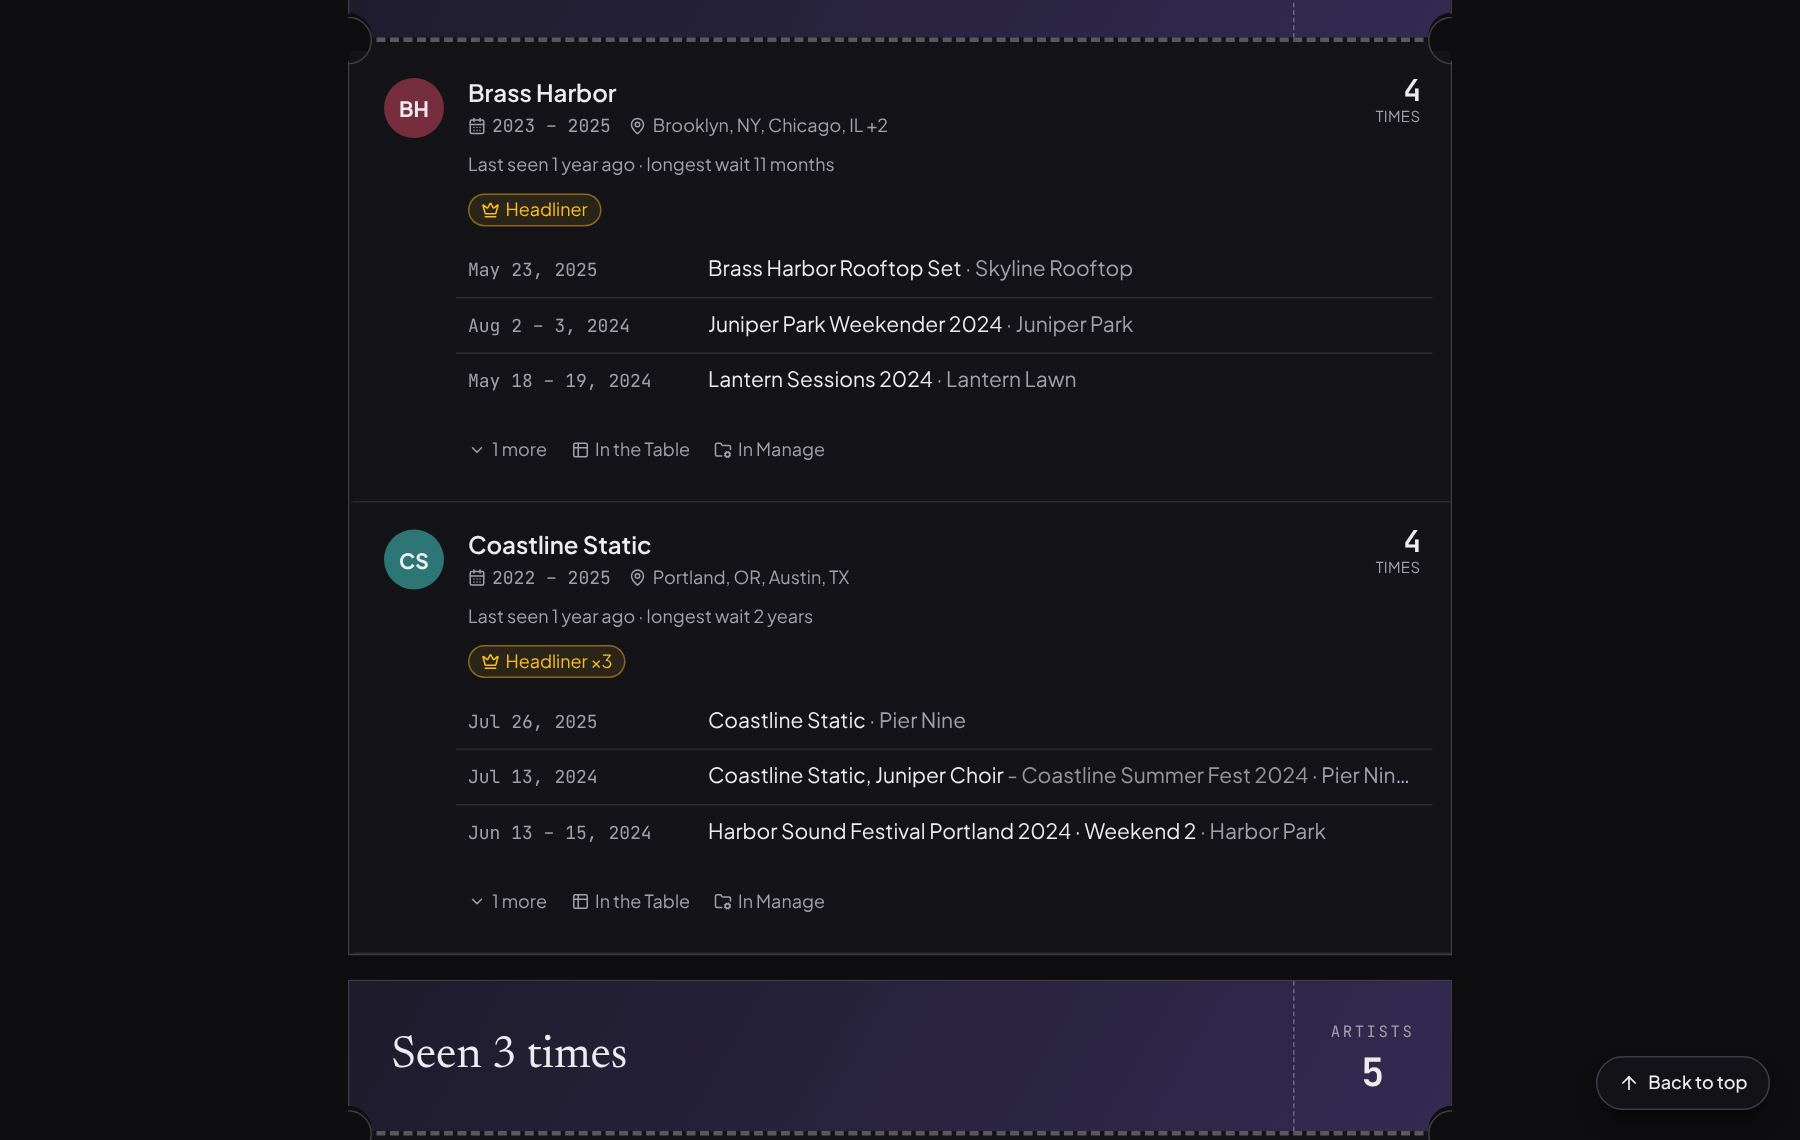
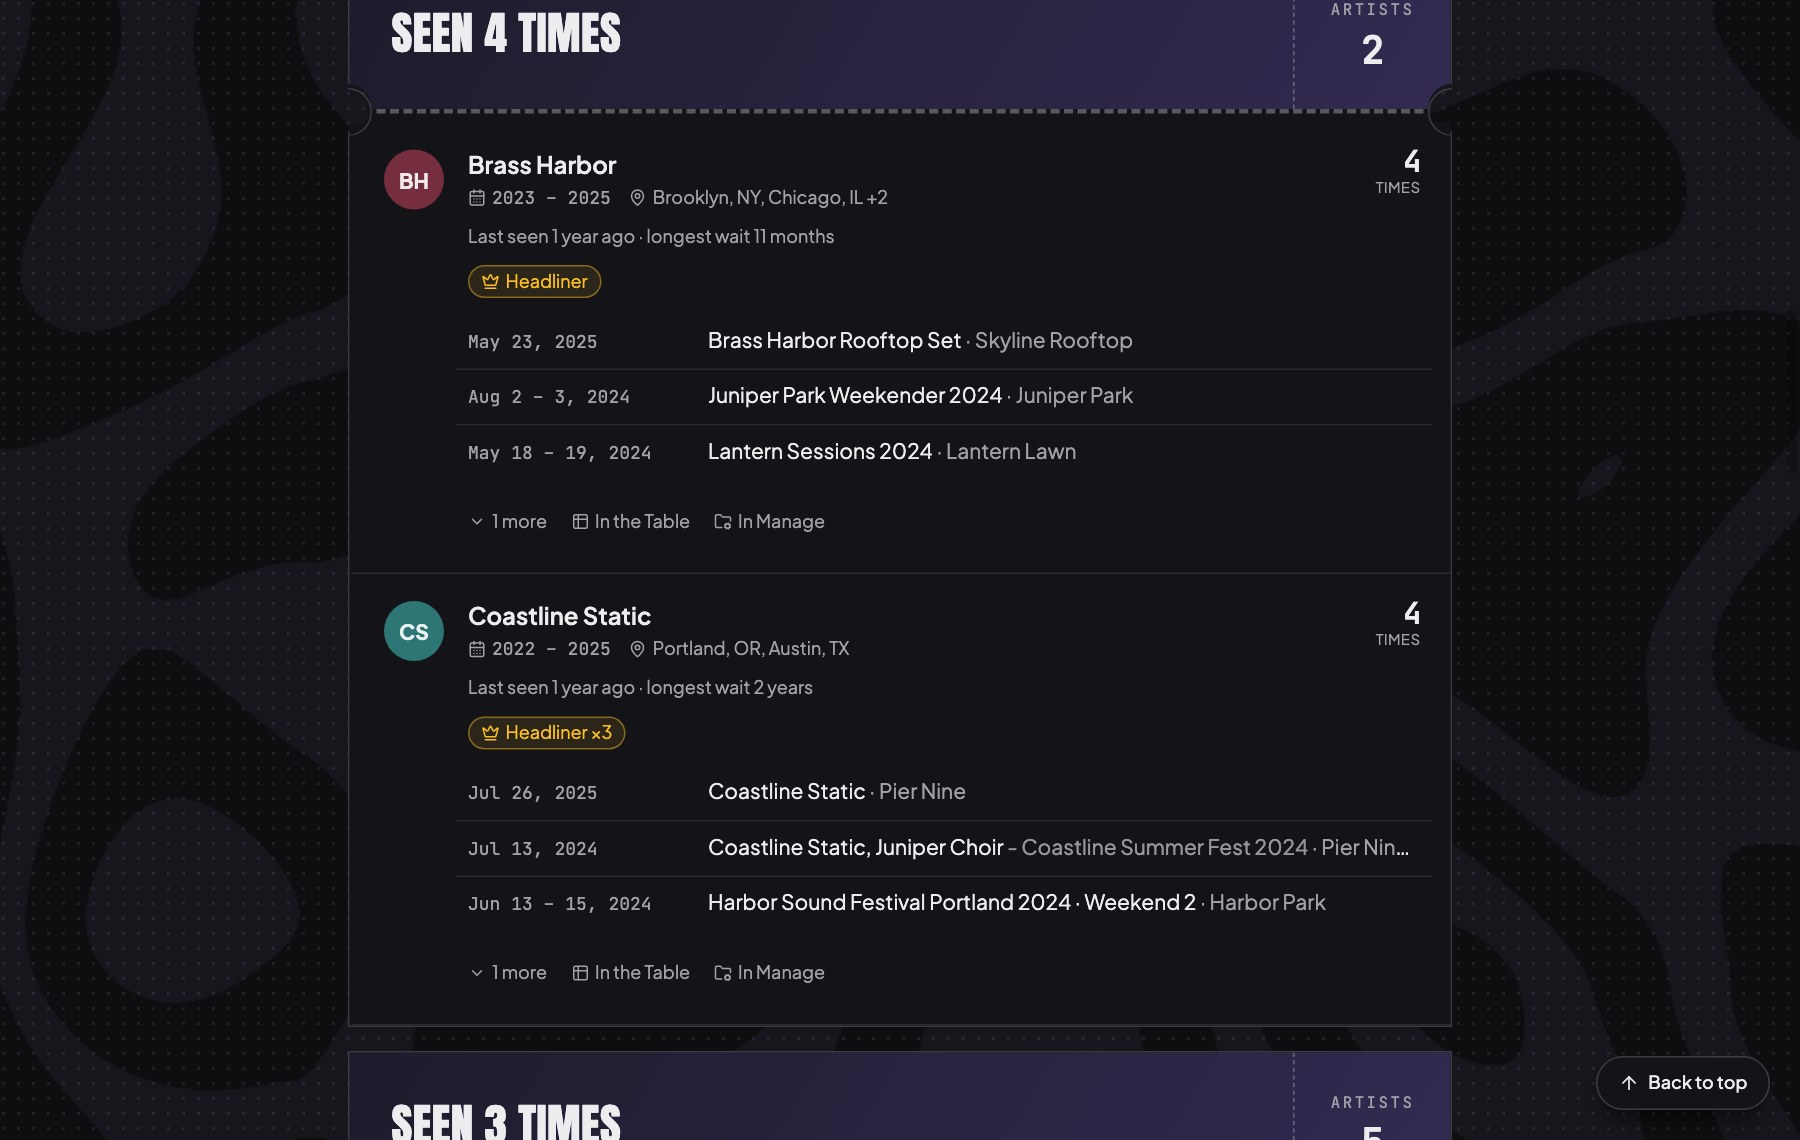
Slice 49.4: Archive v2 landing screenshots and capture LiveArchive 3.0 screenshots
Referee-Verdict: VERIFIED
Referee-Tree: 33c3548f684e96840e5f021e9c1fddb3d5af4b87
Telemetry-Dispatches: 0
Telemetry-Main-Source-Writes: 0
Scope-Widened: docs/design-system/screenshots/
Referee-Engine: b9090a51f6a7dc57

diff --git a/.spec/PROGRESS.md b/.spec/PROGRESS.md
@@ -6,4 +6,4 @@ Finished slices move to `.spec/archive/HISTORY.md` and `.spec/archive/HISTORY-20
 - [x] **Slice 49.1: Remove event tint toggle and clean up inline UI copies** [UI / VISUAL] Remove eventTint toggle/service/CSS/tests and migrate SaveStatus, ThemePicker mode, and PosterHeader ThingsLeft Next button to shared semantic tokens/components. Target files: src/components/ThemePicker.tsx, src/components/PosterHeader.tsx, src/components/TableView.tsx, src/components/ui/SaveStatus.tsx, src/index.css, src/services/eventTint.ts, tests/eventTint.test.ts, tests/docsLinks.test.ts | Verify: npm run typecheck --silent && npm run lint --silent && npm test --silent
 - [x] **Slice 49.2: Design system CSS modularization, catalog sync & drift-guard test** [UI / VISUAL] Split src/index.css into src/styles/tokens.css, src/styles/motion.css, and src/styles/ticket-styles.css, sync docs/design-system/*, and add tests/designSystemDrift.test.ts. Target files: src/index.css, src/styles/tokens.css, src/styles/motion.css, src/styles/ticket-styles.css, src/services/theme.ts, tests/themeContrast.test.ts, tests/motion.test.ts, tests/landingLook.test.ts, tests/designSystemDrift.test.ts, docs/design-system/design-system.json, docs/design-system/README.md, docs/design-system/agent-rules.md, docs/design-system/philosophy-and-voice.md | Verify: npm run typecheck --silent && npm run lint --silent && npm test --silent && npm run build
 - [x] **Slice 49.3: Codebase documentation pass, archiving & index sync** [CORE / DATA] Fix factual errors and wall-of-text bloat in ARCHITECTURE.md, REQUIREMENTS.md, docs/architecture/*, and docs/specs/*; archive completed non-AGENTS.md specs and update doc path comments; sync docs/README.md, docs/CONTEXT_ATLAS.md, and .spec/*.md. Target files: ARCHITECTURE.md, REQUIREMENTS.md, docs/, .spec/, src/components/, src/server/, src/services/, src/styles/, tests/ | Verify: npm run typecheck --silent && npm run lint --silent && npm test --silent
-- [ ] **Slice 49.4: Archive old landing screenshots & capture LiveArchive 3.0 screenshots** [IN_PROGRESS] [UI / VISUAL] Archive pre-3.0 screenshots to docs/design-system/screenshots/v2/, capture fresh 1800x1140 LiveArchive 3.0 screenshots in src/landing/, and tune index.html framing if needed. Target files: docs/design-system/screenshots/README.md, docs/design-system/screenshots/v2/detail.jpg, docs/design-system/screenshots/v2/home.jpg, docs/design-system/screenshots/v2/timeline.jpg, docs/design-system/screenshots/v2/ranking.jpg, src/landing/detail.jpg, src/landing/home.jpg, src/landing/timeline.jpg, src/landing/ranking.jpg, index.html | Verify: npm run build && npm run typecheck --silent && npm run lint --silent && npm test --silent
+- [x] **Slice 49.4: Archive old landing screenshots & capture LiveArchive 3.0 screenshots** [UI / VISUAL] Archive pre-3.0 screenshots to docs/design-system/screenshots/v2/, capture fresh 1800x1140 LiveArchive 3.0 screenshots in src/landing/, and tune index.html framing if needed. Target files: docs/design-system/screenshots/README.md, docs/design-system/screenshots/v2/detail.jpg, docs/design-system/screenshots/v2/home.jpg, docs/design-system/screenshots/v2/timeline.jpg, docs/design-system/screenshots/v2/ranking.jpg, src/landing/detail.jpg, src/landing/home.jpg, src/landing/timeline.jpg, src/landing/ranking.jpg, index.html | Verify: npm run build && npm run typecheck --silent && npm run lint --silent && npm test --silent

diff --git a/docs/design-system/screenshots/README.md b/docs/design-system/screenshots/README.md
@@ -1,0 +1,15 @@
+# Landing Page Screenshot Archive
+
+Versioned archive of the `/demo` screenshots used on the public landing page (`index.html`), kept here (outside `src/` and `public/`) so Vite only bundles the current generation in `src/landing/`.
+
+## Generations
+
+- `v2/`: Pre–LiveArchive 3.0 screenshots (before `PosterHeading`, `PostIt`, rotating contour backdrop, and 3.0 ticket polish).
+- Current (`src/landing/*.jpg`): LiveArchive 3.0 screenshots (`1800 × 1140` JPEG, captured from `/demo` at `1200 × 760` @ `1.5x`).
+
+## Views captured
+
+1. `detail.jpg` — `/demo?view=agenda&event=mesa-2025` (Event detail for Mesa Lights Festival 2025, `You saw` tab)
+2. `home.jpg` — `/demo` (Home top, showing `PosterHeading`, quick-add, `LAST SHOW` ticket stub, and `PostIt` tiles)
+3. `timeline.jpg` — `/demo?view=agenda` (Explore → Timeline → Agenda)
+4. `ranking.jpg` — `/demo?view=ranking` (Explore → Ranking → Artists, scrolled to `Seen 4 times` / `Seen 3 times`)

diff --git a/.spec/SESSION_HANDOFF.md b/.spec/SESSION_HANDOFF.md
@@ -3,6 +3,6 @@
 - **Last Active Platform:** Antigravity
 - **Active Branch / State:** `feat/post-3.0-design-docs-pass` off `main` (Post-3.0 design system, documentation, and landing screenshot pass).
 - **Active Slice:** none
-- **Verification Status:** Verified via finish-slice.mjs (Slice 49.3)
+- **Verification Status:** Verified via finish-slice.mjs (Slice 49.4)
 - **Immediate Next Step:** Complete Slice 49.3 (docs pass) and Slice 49.4 (landing screenshots), run `ci-gate.mjs` / `pr-scope-check.mjs`, open PR, and merge to `main`.
 - **Open gaps:** none.
